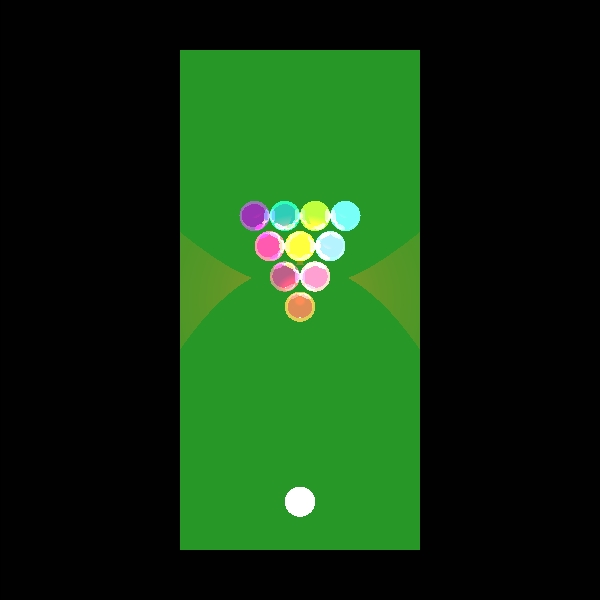
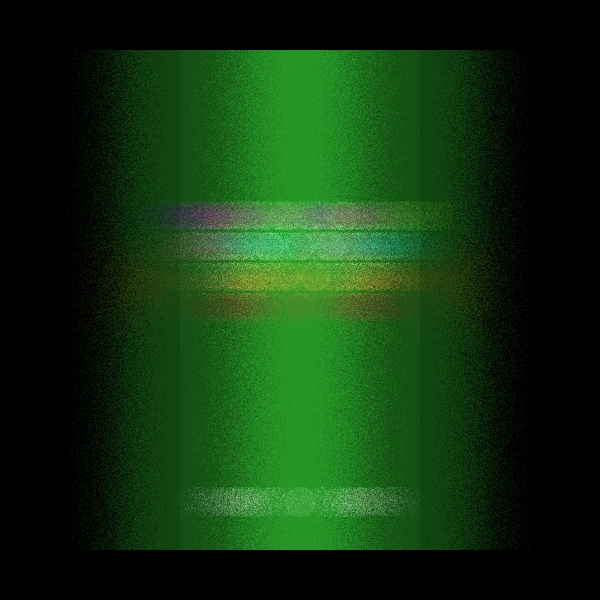
chnging the focus beam function

diff --git a/IME5780-E1-5840-6639/src/renderer/Render.java b/IME5780-E1-5840-6639/src/renderer/Render.java
@@ -127,7 +127,7 @@ public class Render {
      * This function renders image's pixel color map from the scene included with
      * the Renderer object
      */
-    public void renderImage(boolean focus, int numOfBean) {
+    public void renderImage(int numOfBeam) {
         final int nX = _imageWriter.getNx();
         final int nY = _imageWriter.getNy();
         final double dist = _scene.getViewPlaneDistance();
@@ -143,19 +143,15 @@ public class Render {
                 Pixel pixel = new Pixel();
                 while (thePixel.nextPixel(pixel)) {
                     List<Ray> focusBeam=new LinkedList<>();
+                    focusBeam.add(camera.constructRayThroughPixel(nX, nY, pixel.col, pixel.row, //
+                            dist, width, height));
+                    focusBeam.addAll(focusRays(camera,focusBeam.get(0),numOfBeam));
+                    Color color=calcColor(camera,focusBeam,_scene.getBackground(),numOfBeam);
+                    List<GeoPoint> closestPoints = findClosestIntersection(focusBeam);
+                    if (closestPoints != null) {
+                        _imageWriter.writePixel(pixel.col, pixel.row, color.getColor());
+                    } else _imageWriter.writePixel(pixel.col, pixel.row, _scene.getBackground().getColor());
 
-                        focusBeam.add(camera.constructRayThroughPixel(nX, nY, pixel.col, pixel.row, //
-                                dist, width, height));
-                    if(focus) {
-                        Color color=calcColor(camera,focusBeam,numOfBean);
-                        _imageWriter.writePixel(pixel.col, pixel.row,color.getColor());
-                    }
-                    else {
-                        GeoPoint closestPoint = findClosestIntersection(focusBeam.get(0));
-                        if (closestPoint != null) {
-                            _imageWriter.writePixel(pixel.col, pixel.row, calcColor(findClosestIntersection(focusBeam.get(0)), focusBeam.get(0)).getColor());
-                        } else _imageWriter.writePixel(pixel.col, pixel.row, _scene.getBackground());
-                    }
                 }
             });
         }
@@ -168,7 +164,7 @@ public class Render {
         if (_print) System.out.printf("\r100%%\n");
     }
      public void renderImage(){
-     renderImage(false,0);
+     renderImage(0);
      }
 
     /**
@@ -254,14 +250,15 @@ public class Render {
                 _scene.getAmbientLight().getIntensity());
     }
 
-    private Color calcColor(Camera camera, List<Ray> rays,int numOfBeam){
-        rays.addAll(focusRays(camera,rays.get(0),numOfBeam));
-        Color color = new Color(1,1,1);
+    private Color calcColor(Camera camera, List<Ray> rays,Color background, int numOfBeam){
+        Color color = new Color(0,0,0);
         for(var ray:rays){
             GeoPoint geoPoint=findClosestIntersection(ray);
             if(geoPoint!=null) {
                 color= color.add((calcColor(geoPoint, ray)));
             }
+            else
+                color = color.add(background);
         }
         return (color.reduce(rays.size()));
     }
@@ -304,7 +301,7 @@ public class Render {
         List<GeoPoint> intersections = _scene.getGeometries().findIntersections(lightRay,light.getDistance(geoPoint.point));
         double shdow=1;
         if(intersections==null)
-           return 1;
+           return shdow;
         for(var intersection : intersections){
             shdow*=intersection.geometry.get_matirial().getKt();
         }
@@ -339,7 +336,9 @@ public class Render {
     private List<GeoPoint> findClosestIntersection(List<Ray> rays){
         List<GeoPoint> geoPoints = new LinkedList<>();
         for(var ray:rays){
-            geoPoints.add(findClosestIntersection(ray));
+            GeoPoint geoPoint = (findClosestIntersection(ray));
+            if(geoPoint != null)
+                geoPoints.add(geoPoint);
         }
         if(geoPoints.size()==0)
             return null;
@@ -354,5 +353,25 @@ public class Render {
         List<Ray> focusRays= camera.constractImageFocusRay(pointInViewPlane,pointInFocalPlane, numOfBeamRays);
         return focusRays;
     }
+/*
+    private List<Ray> shadowRys(LightSource lightSource, Ray ray, int numOfBeamRays){
+        PointLight light=(PointLight)lightSource;
+        if(lightSource.getClass()!=SpotLight.class || lightSource.getClass()!=PointLight.class)
+              return List.of(ray);
+        double cosTeta = Math.random();
+        double sinTeta = Math.sqrt(1 - cosTeta*cosTeta);
+        double d = Math.random ()*light.getRadius();
+// Convert polar coordinates to Cartesian ones
+        double x = d*cosTeta;
+        double y = d*sinTeta;
+// pC - center of the circle
+// p0 - start of central ray, v - its direction, distance - from p0 to pC
+        Point3D point = light.get_pL();
+        if (!Util.isZero(x)) point = point.add(vx.scale(x));
+        if (!Util.isZero(y)) point = point.add(vy,scale(y));
+        beam.add(new Ray(p0, point.subtract(p0))); // normalized inside Ray ctor
+    }*/
+
+
 }
 

diff --git a/IME5780-E1-5840-6639/src/elements/PointLight.java b/IME5780-E1-5840-6639/src/elements/PointLight.java
@@ -7,7 +7,7 @@ import primitives.Vector;
 public class PointLight extends Light implements LightSource {
     protected Point3D _pL;
     protected double _kc,_kl,_kq;
-
+    double _radius;
     /**
      * constructor
      * @param emmision
@@ -17,11 +17,16 @@ public class PointLight extends Light implements LightSource {
      * @param kq
      */
     public PointLight(Color emmision,Point3D pos,double kc,double kl,double kq){
+    this(emmision, pos, kc, kl, kq, 0);
+    }
+
+    public PointLight(Color emmision, Point3D pos, double kc, double kl, double kq, double radius){
         super(emmision);
         this._pL=pos;
         this._kc=kc;
         this._kl=kl;
         this._kq=kq;
+        this._radius=radius;
     }
 
     /**
@@ -46,5 +51,13 @@ public class PointLight extends Light implements LightSource {
     @Override
     public double getDistance(Point3D point) {
         return this._pL.distance(point);
+    }
+
+    public double getRadius() {
+        return _radius;
+    }
+
+    public Point3D get_pL() {
+        return _pL;
     }
 }

diff --git a/IME5780-E1-5840-6639/src/geometries/Geometries.java b/IME5780-E1-5840-6639/src/geometries/Geometries.java
@@ -47,8 +47,10 @@ public class Geometries implements Intersectable {
     public List<GeoPoint> findIntersections(Ray ray, double max) {
         List<GeoPoint> answer = new LinkedList<>();
         for (var shape: intersectables) {
-            if(shape.findIntersections(ray,max)!=null)
-                  answer.addAll(shape.findIntersections(ray,max));
+            if(shape != null) {
+                if (shape.findIntersections(ray, max) != null)
+                    answer.addAll(shape.findIntersections(ray, max));
+            }
         }
         //return the list only if there are intersections
         if(answer.size() > 0)

diff --git a/IME5780-E1-5840-6639/src/unittests/ReflectionRefractionTests.java b/IME5780-E1-5840-6639/src/unittests/ReflectionRefractionTests.java
@@ -209,7 +209,7 @@ public class ReflectionRefractionTests {
         ImageWriter imageWriter = new ImageWriter("shadow with transparency1", 200, 200, 600, 600);
         Render render = new Render(imageWriter, scene).setMultithreading(3).setDebugPrint();
 
-        render.renderImage(true,60);
+        render.renderImage(60);
         render.writeToImage();
     }
 

diff --git a/IME5780-E1-5840-6639/src/unittests/Depth_of_field.java b/IME5780-E1-5840-6639/src/unittests/Depth_of_field.java
@@ -89,7 +89,7 @@ public class Depth_of_field {
         ImageWriter imageWriter = new ImageWriter("snooker table", 200, 200, 600, 600);
         Render render = new Render(imageWriter, scene).setMultithreading(3).setDebugPrint();
 
-        render.renderImage(true,0);
+        render.renderImage(15);
         render.writeToImage();
     }
 

diff --git a/IME5780-E1-5840-6639/src/scene/Scene.java b/IME5780-E1-5840-6639/src/scene/Scene.java
@@ -48,8 +48,8 @@ public class Scene {
         return _name;
     }
 
-    public java.awt.Color getBackground() {
-        return _background.getColor();
+    public Color getBackground() {
+        return _background;
     }
 
     public AmbientLight getAmbientLight() {

diff --git a/IME5780-E1-5840-6639/src/elements/DirectionalLight.java b/IME5780-E1-5840-6639/src/elements/DirectionalLight.java
@@ -31,4 +31,8 @@ public class DirectionalLight extends Light implements LightSource {
     public double getDistance(Point3D point) {
         return Double.POSITIVE_INFINITY;
     }
+
+    public double getRadius() {
+        return 0;
+    }
 }

diff --git a/IME5780-E1-5840-6639/src/elements/LightSource.java b/IME5780-E1-5840-6639/src/elements/LightSource.java
@@ -3,6 +3,7 @@ import primitives.*;
 public interface LightSource {
     public Color getIntensity(Point3D p);
     public Vector getL(Point3D p);
+    public double getRadius();
     double getDistance(Point3D point);
 
 }

diff --git a/IME5780-E1-5840-6639/src/elements/SpotLight.java b/IME5780-E1-5840-6639/src/elements/SpotLight.java
@@ -36,7 +36,6 @@ public class SpotLight extends PointLight {
         double cos=Util.alignZero(l.dotProduct(_direction));
         return super.getIntensity(p).scale(Math.max(0,cos));
 
-
     }
 
 }
